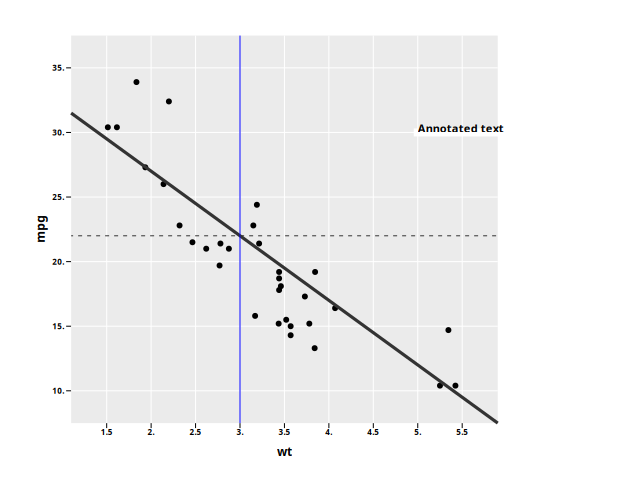
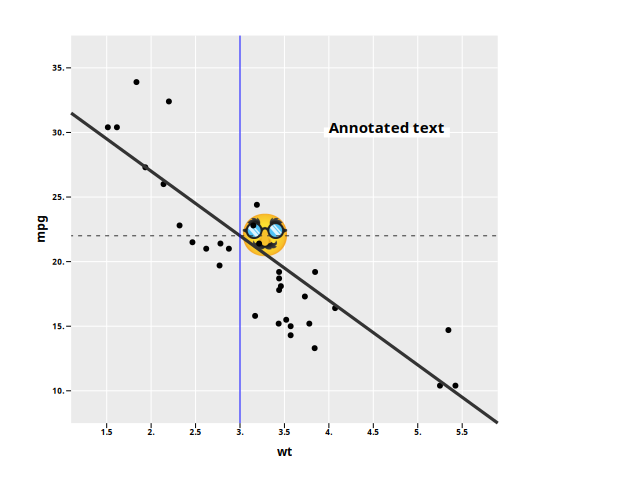
allow emojis

Changed region(s): [[0.5, 0.25, 0.7812, 0.2812], [0.375, 0.4375, 0.4688, 0.5312]]

diff --git a/src/python_ggplot/public_interface/utils.py b/src/python_ggplot/public_interface/utils.py
@@ -770,6 +770,7 @@ def annotate(
     x: Optional[float] = None,
     y: Optional[float] = None,
     size: int = 12,
+    emoji: bool= False,
     rotate: float = 0.0,
     background_color: str = "white",
 ) -> Annotation:
@@ -779,6 +780,10 @@ def annotate(
         # TODO: implement hex (str) -> Color
         raise GGException(f"coulnd not convert {background_color} to color")
 
+    if emoji:
+        font_family = "Segoe UI Emoji"
+    else:
+        font_family = "sans-serif"
     result = Annotation(
         left=left,
         bottom=bottom,
@@ -787,7 +792,7 @@ def annotate(
         x=x,
         y=y,
         text=text,
-        font=Font(size=size),
+        font=Font(size=size, family=font_family),
         rotate=rotate,
         background_color=bg_color,
     )

diff --git a/tests/test_plots.py b/tests/test_plots.py
@@ -510,7 +510,8 @@ def test_lines():
         + geom_abline(intercept=37, slope=-5, size=3.2)
         + geom_vline(xintercept=3, color="blue")
         + geom_hline(yintercept=22, line_type="dashed")
-        + annotate("Annotated text", x=5, y=30, size=11)
+        + annotate("Annotated text", x=4, y=30, size=15)
+        + annotate("🥸", x=3, y=22, size=40, emoji=True)
     )
     res = ggcreate(plot)
     ggdraw_plot(res, plots_path / "geom_abline_vline_hline.png")
